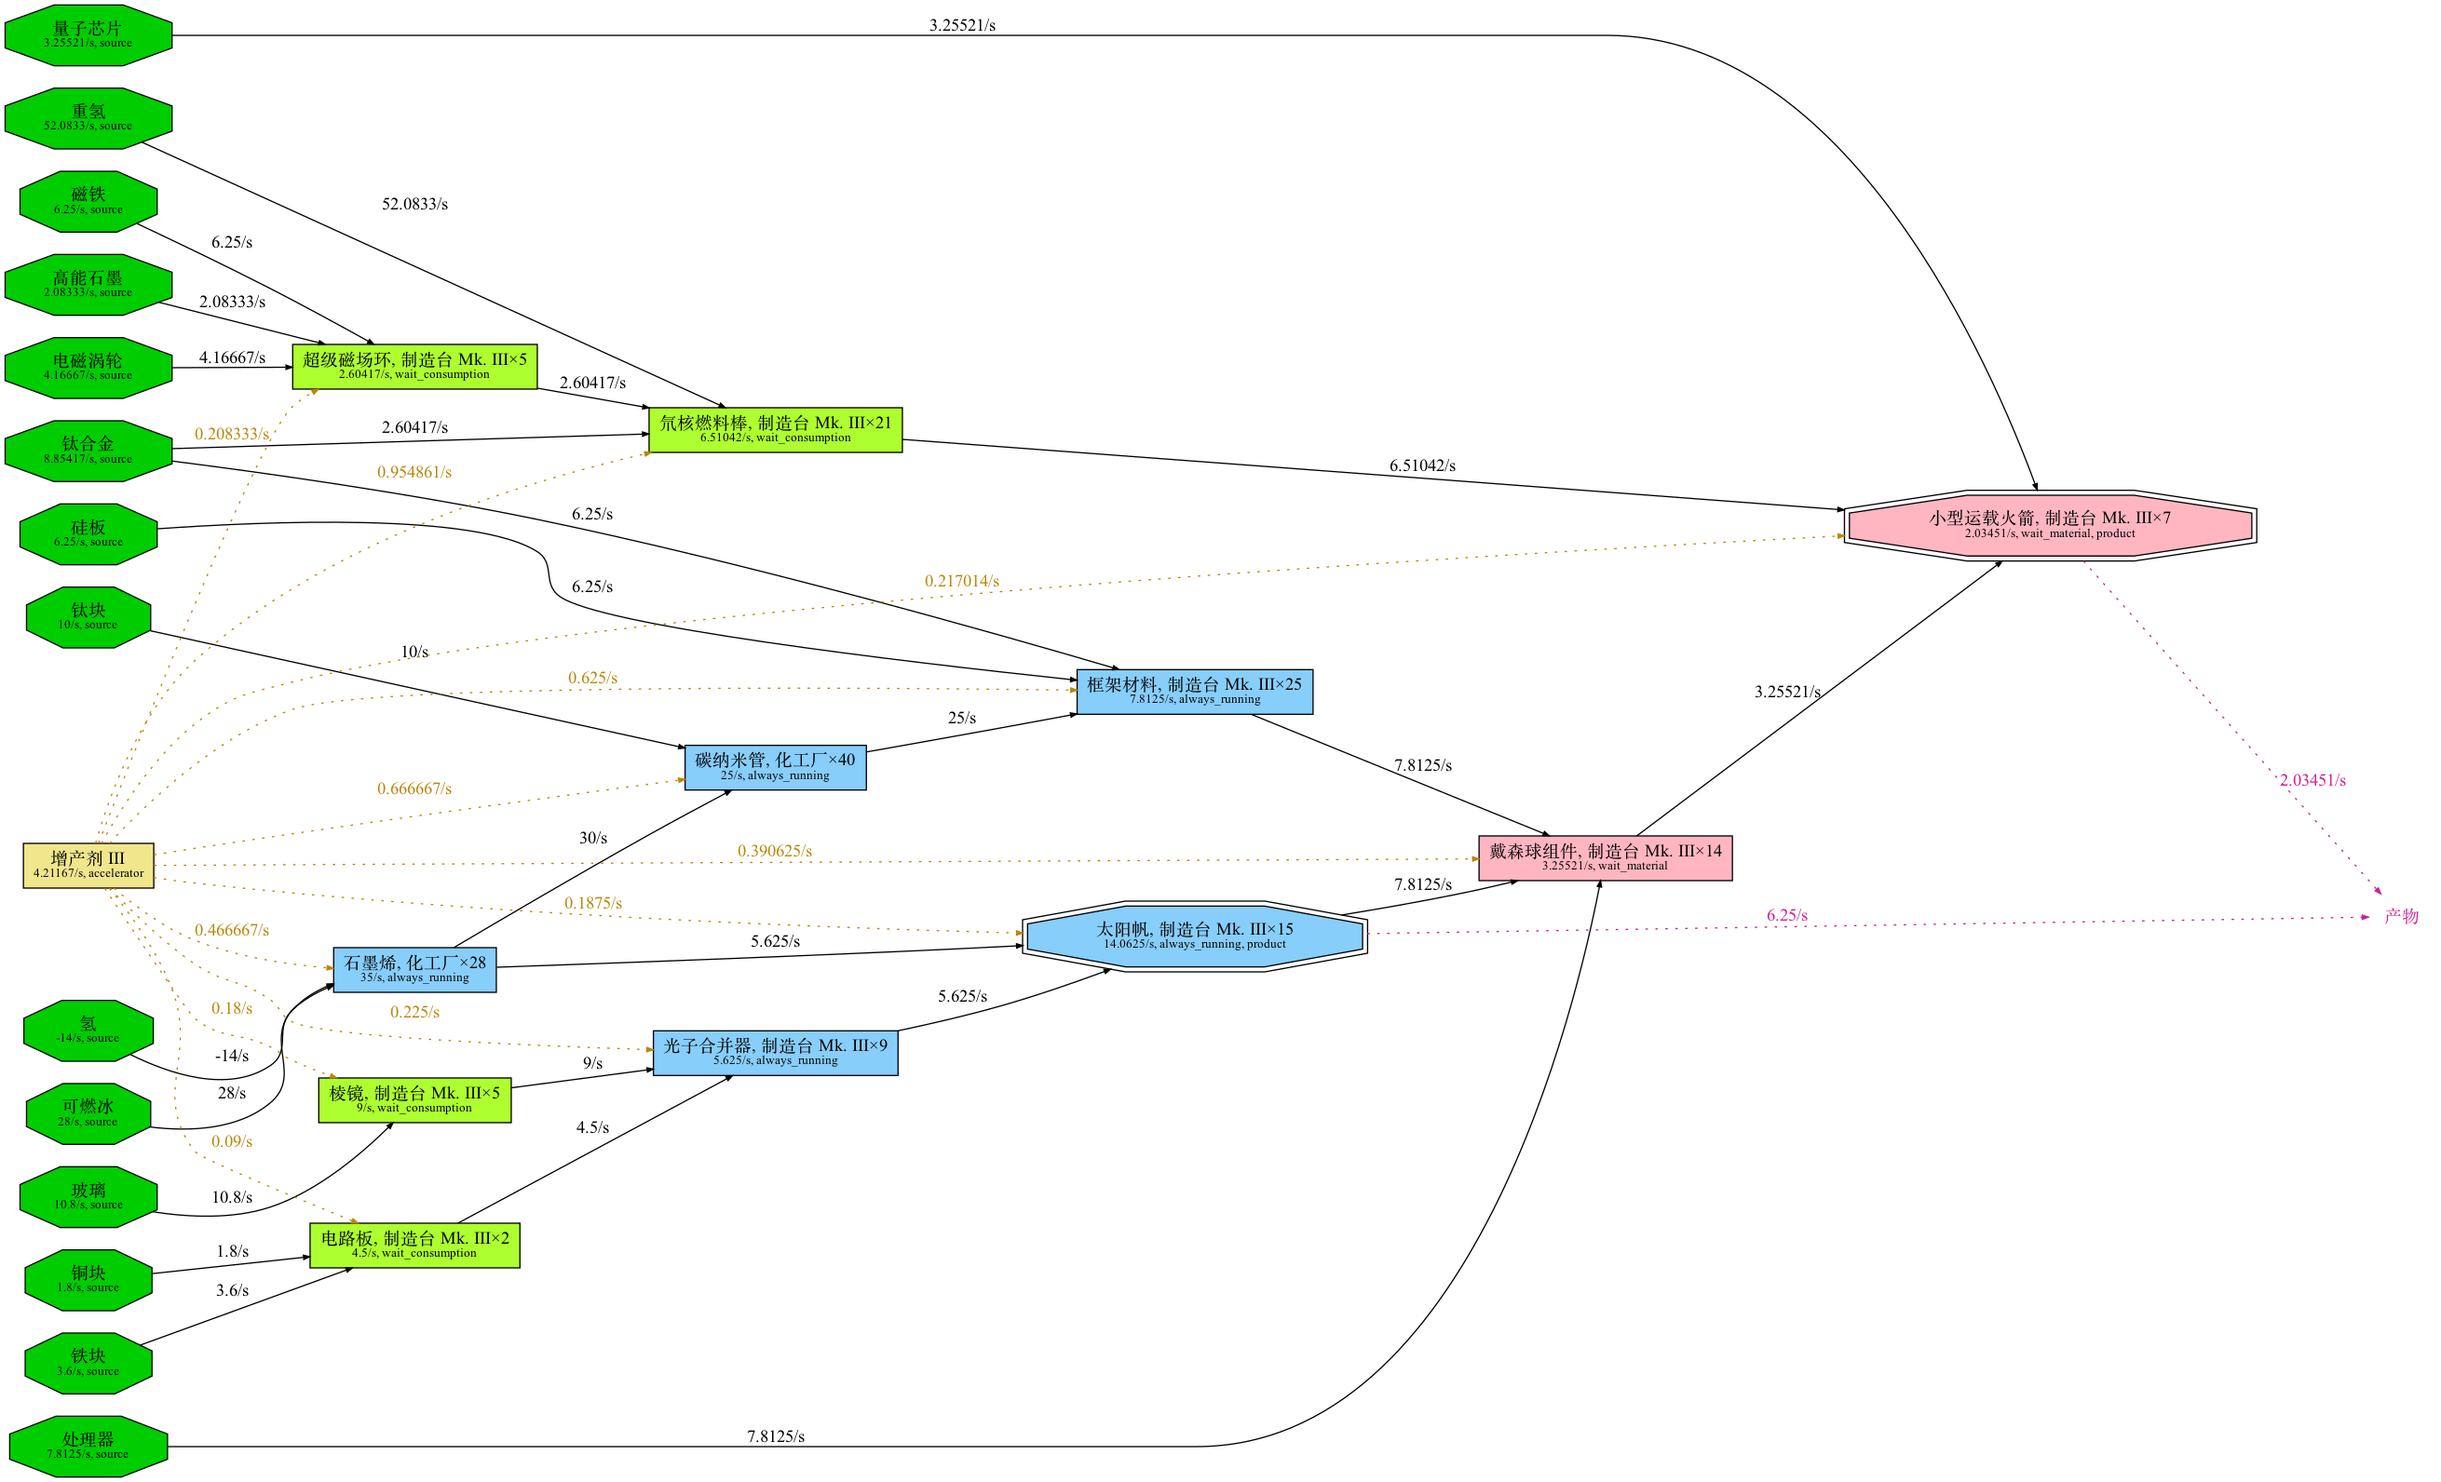
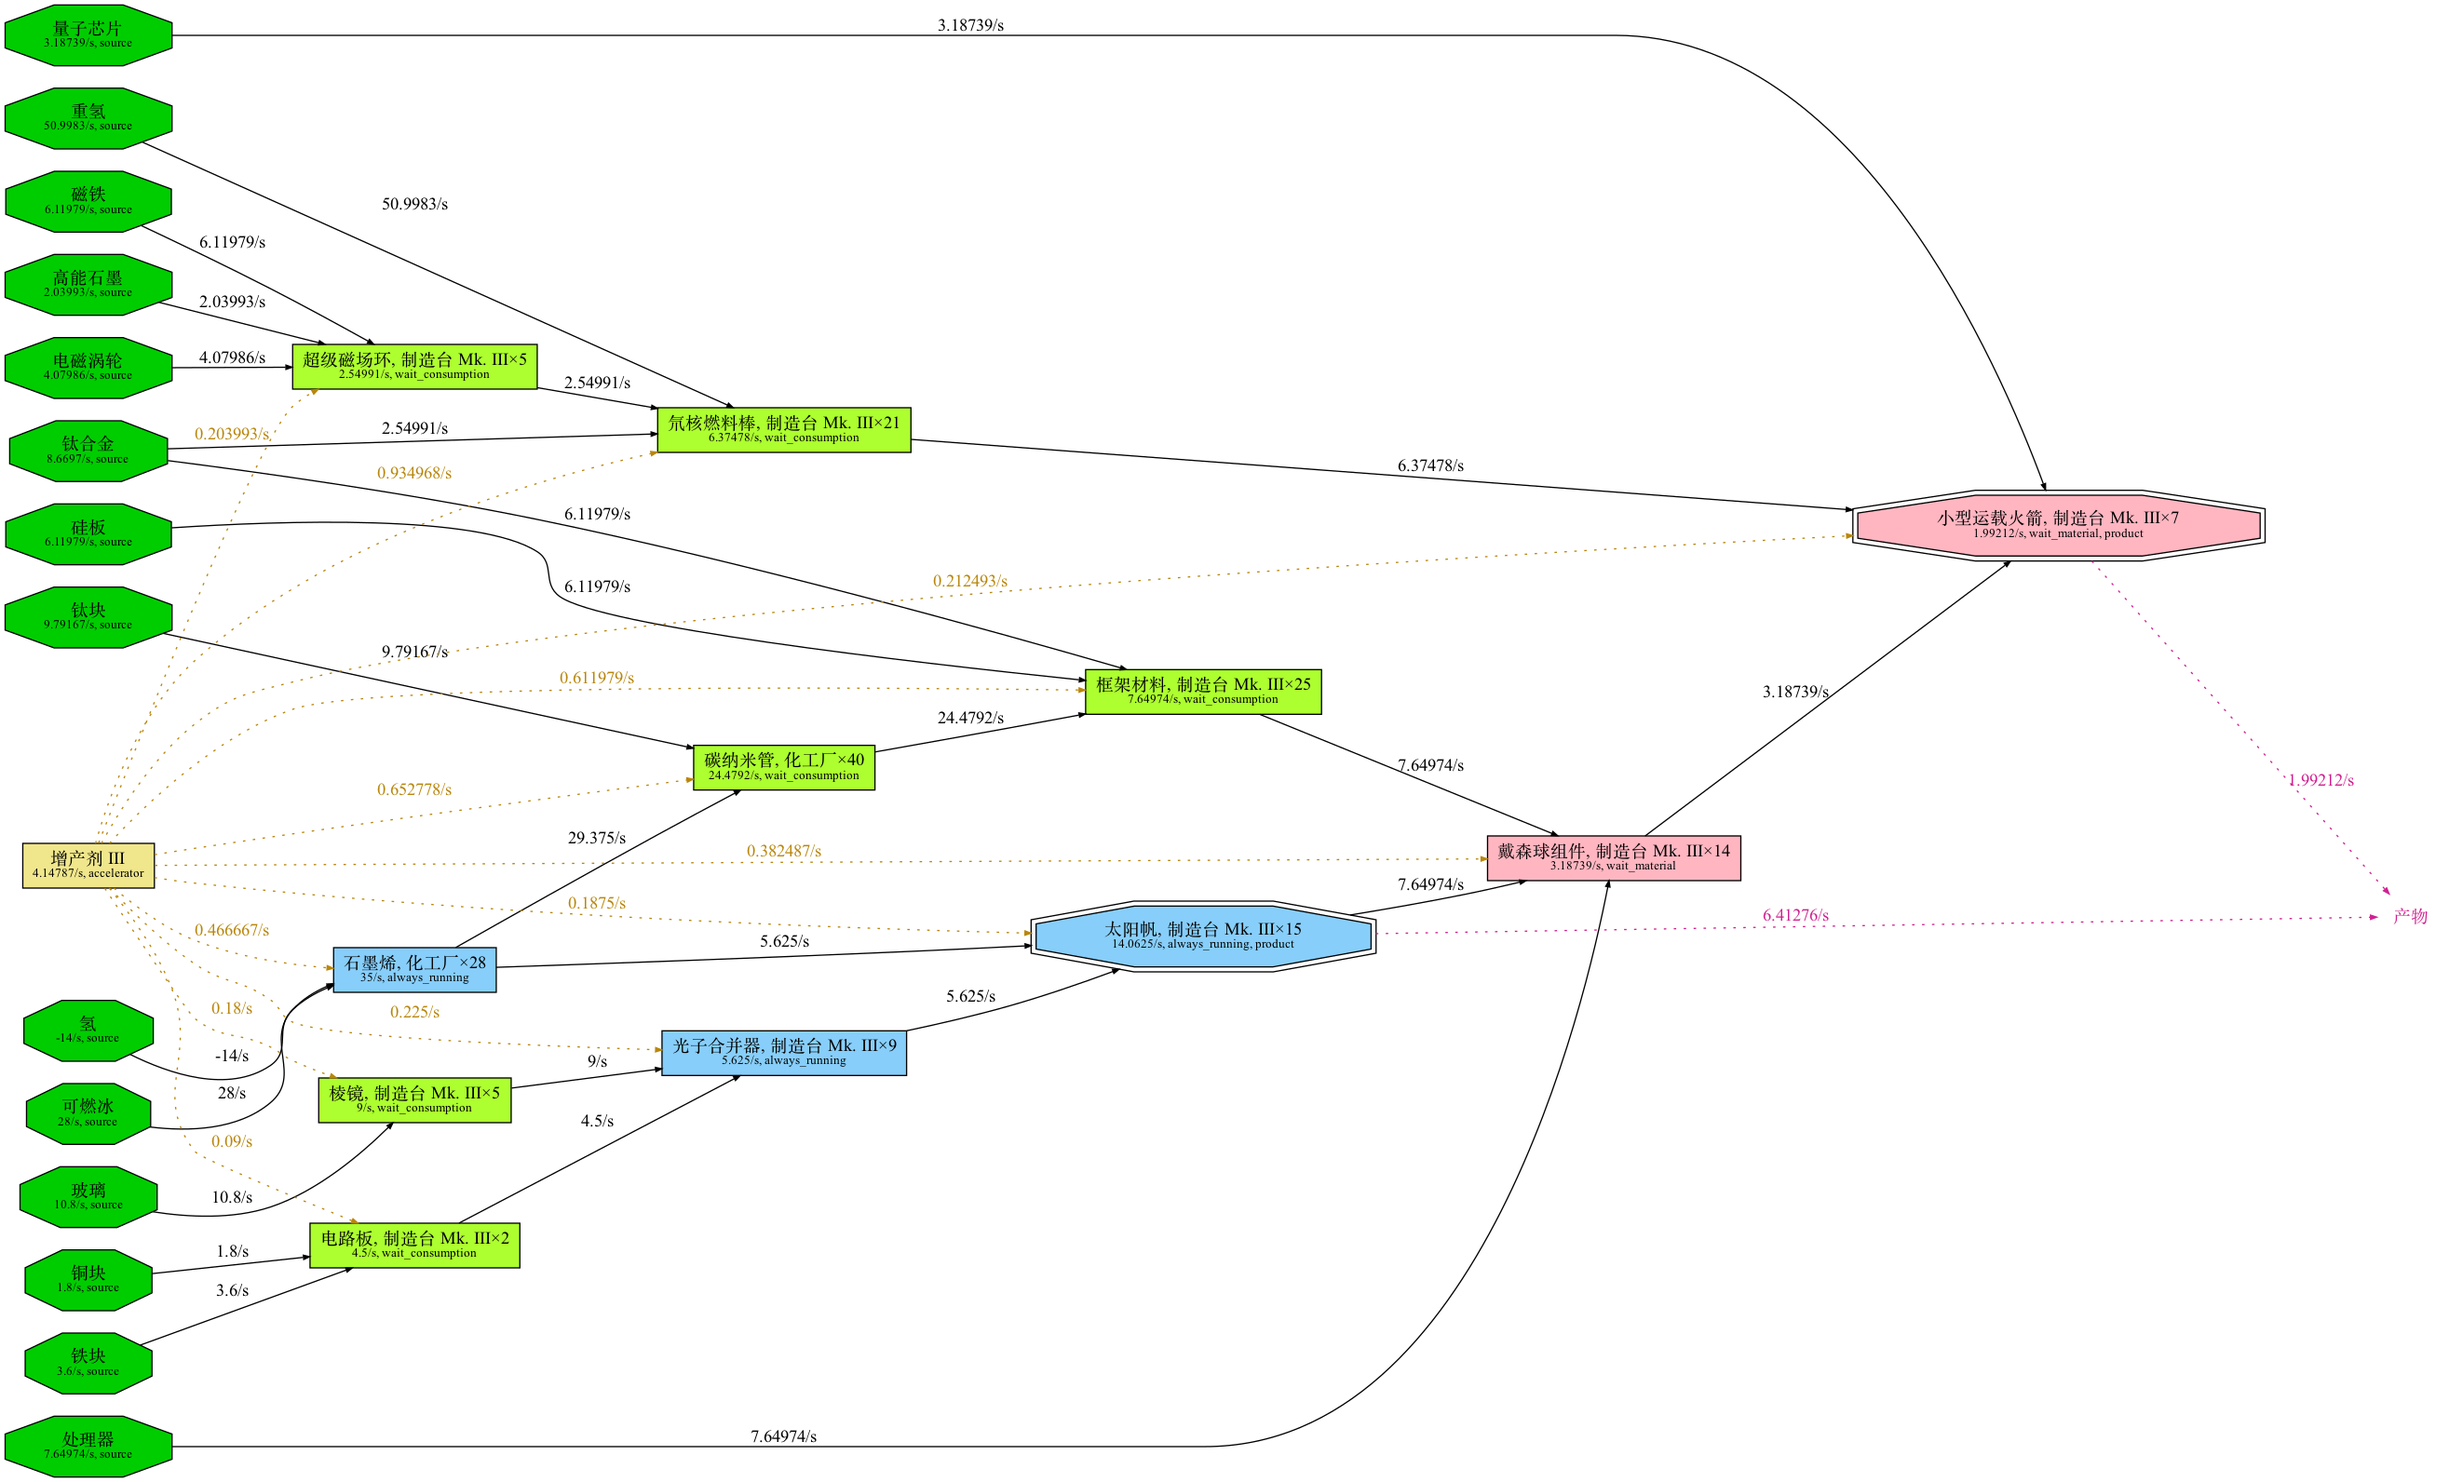
Workaround of distribution bug

diff --git a/dyson.py b/dyson.py
@@ -379,14 +379,34 @@ class Dyson:
             if not sym in self._successor:
                 continue
 
+            remaining_rate = None
+            if max_p_rate is not None:
+                remaining_rate = max_p_rate
+            succ_count = len(self._successor[sym])
+
+            successor = []
             for succ_sym, succ_z in self._successor[sym]:
                 succ_def = self._def[succ_sym]
-                if max_p_rate is not None:
+                max_succ_machine_rate = succ_def.max_rate_from_machine
+                assert max_succ_machine_rate is not None, "{} -> {}".format(
+                    sym, succ_sym)
+                max_succ_consume_rate = max_succ_machine_rate * succ_z
+                successor.append((succ_sym, succ_z, max_succ_consume_rate))
+            successor.sort(key=lambda x: x[2])  # sort by consume_rate asc
+
+            for succ_sym, succ_z, max_consume_rate in successor:
+                succ_def = self._def[succ_sym]
+
+                if remaining_rate is not None:
+                    this_rate = remaining_rate / succ_count
+                    this_rate = min(this_rate, max_consume_rate)
                     succ_def.max_rate_from_material = min_with_none(
-                        succ_def.max_rate_from_material, max_p_rate / succ_z)
+                        succ_def.max_rate_from_material, this_rate / succ_z)
+                    remaining_rate -= this_rate
+                    succ_count -= 1
+
                 assert succ_def.process is not None, succ_sym
                 process = self._process[succ_def.process]
-
                 if not succ_sym in predecessor_visited:
                     predecessor_visited[succ_sym] = 0
                 predecessor_visited[succ_sym] += 1
